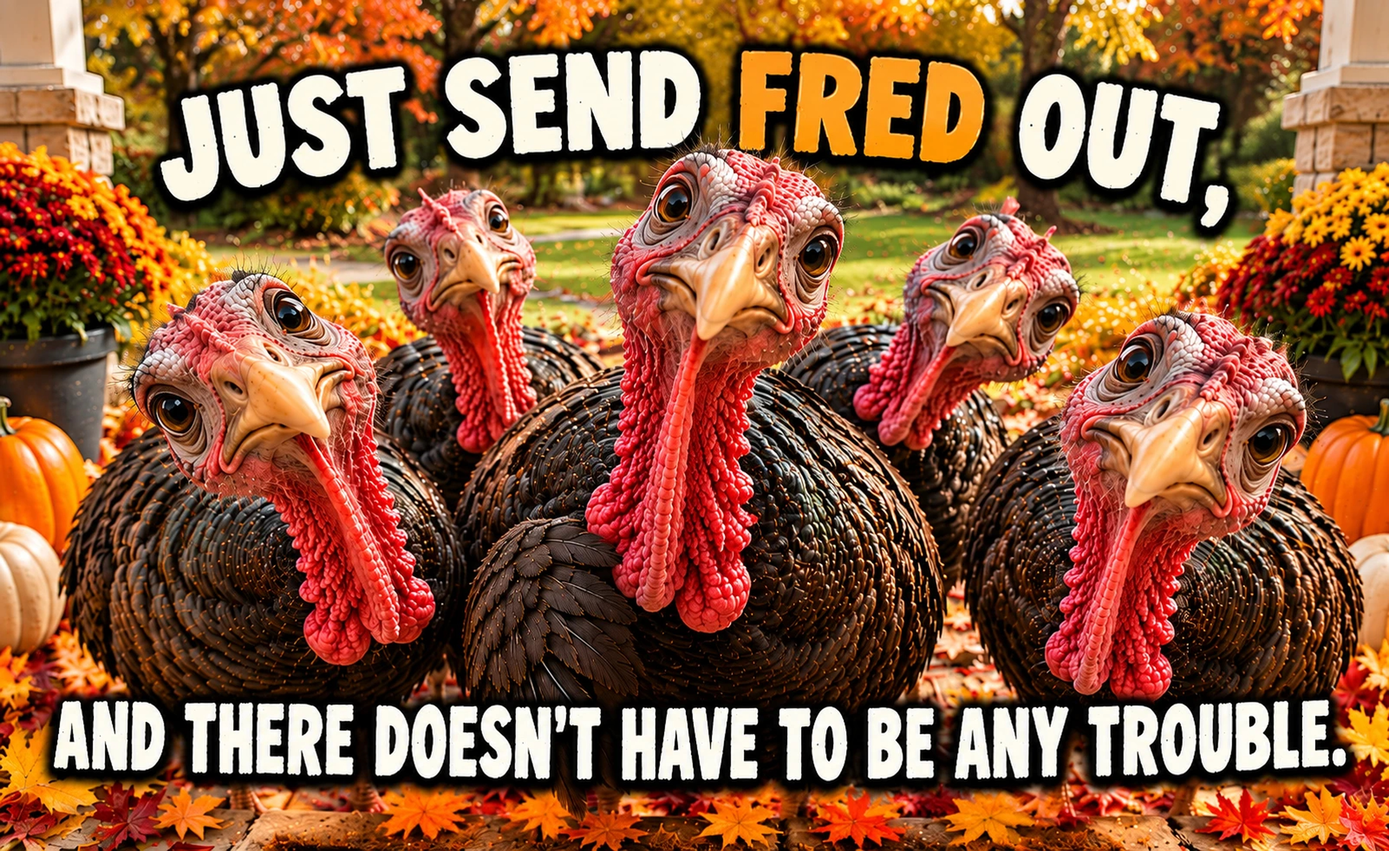
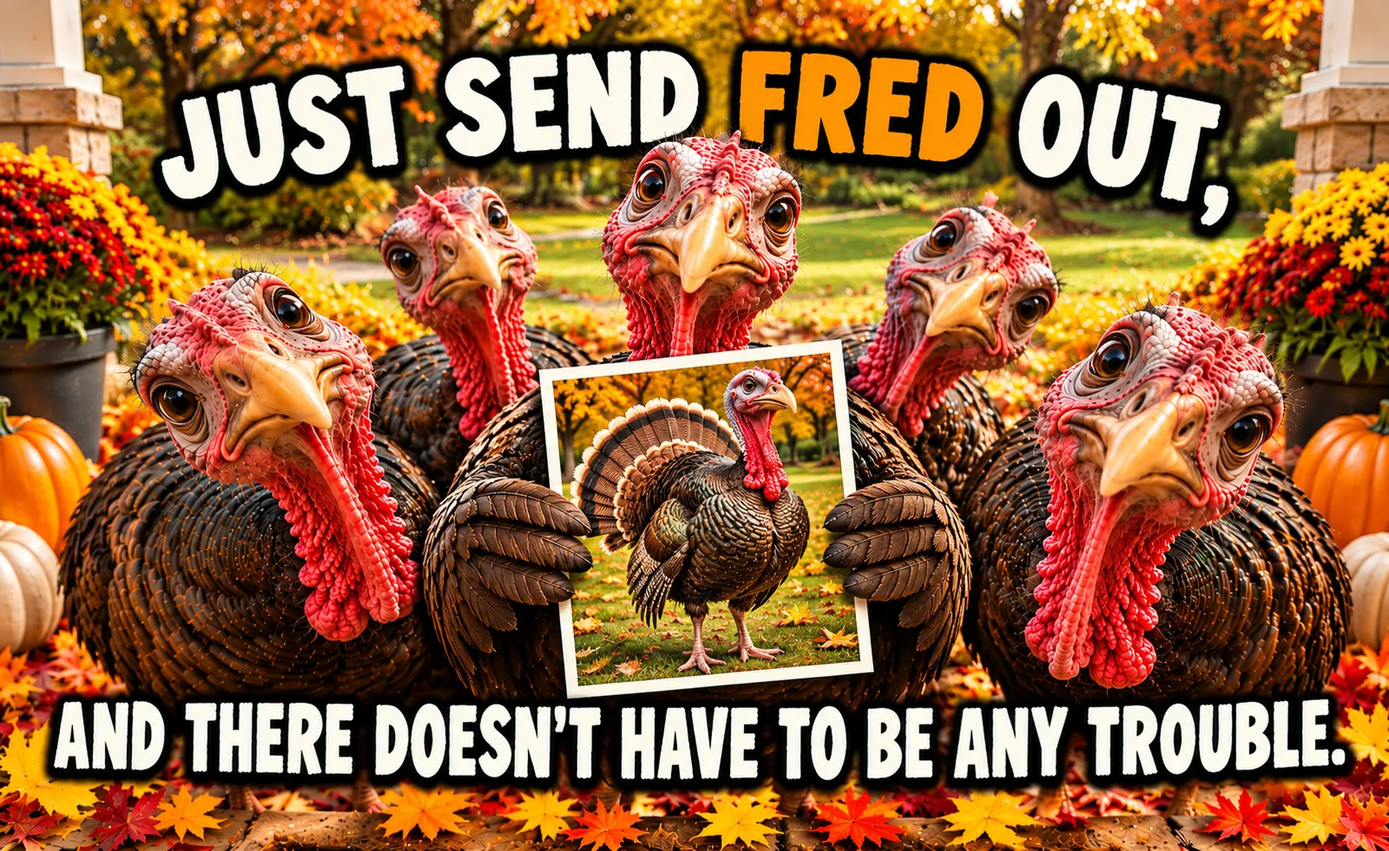
Thanksgiving mats: Send Fred Out, second version, with Fred's photo
Claude-Session: https://claude.ai/code/session_01VPDKP5EJZDEyqUkUM3kqQb

diff --git a/art/thanksgiving-mats/README.md b/art/thanksgiving-mats/README.md
@@ -33,4 +33,4 @@ list is closed.
 | howdy-pilgrim | HOWDY / PILGRIM. in navy under a pilgrim hat, leaves and berries either side, on cream coir (Bud, 29 Oct) |
 | are-you-our-leader | five turkeys peering down over a wooden sign: ARE YOU OUR / LEADER? (Bud, 29 Oct; came as a PNG, saved as webp) |
 | have-you-seen-gary | HAVE YOU SEEN GARY? over five turkeys at the door, one holding a MISSING poster of Gary (Bud, 29 Oct; second version at 1602 x 982, the first came placemat-shaped) |
-| send-fred-out | JUST SEND FRED OUT, / AND THERE DOESN'T HAVE TO BE ANY TROUBLE. The Gary flock at the door again (Bud, 29 Oct) |
+| send-fred-out | JUST SEND FRED OUT, / AND THERE DOESN'T HAVE TO BE ANY TROUBLE. The Gary flock at the door again, holding up Fred's photo (Bud, 29 Oct; second version 31 Oct) |
